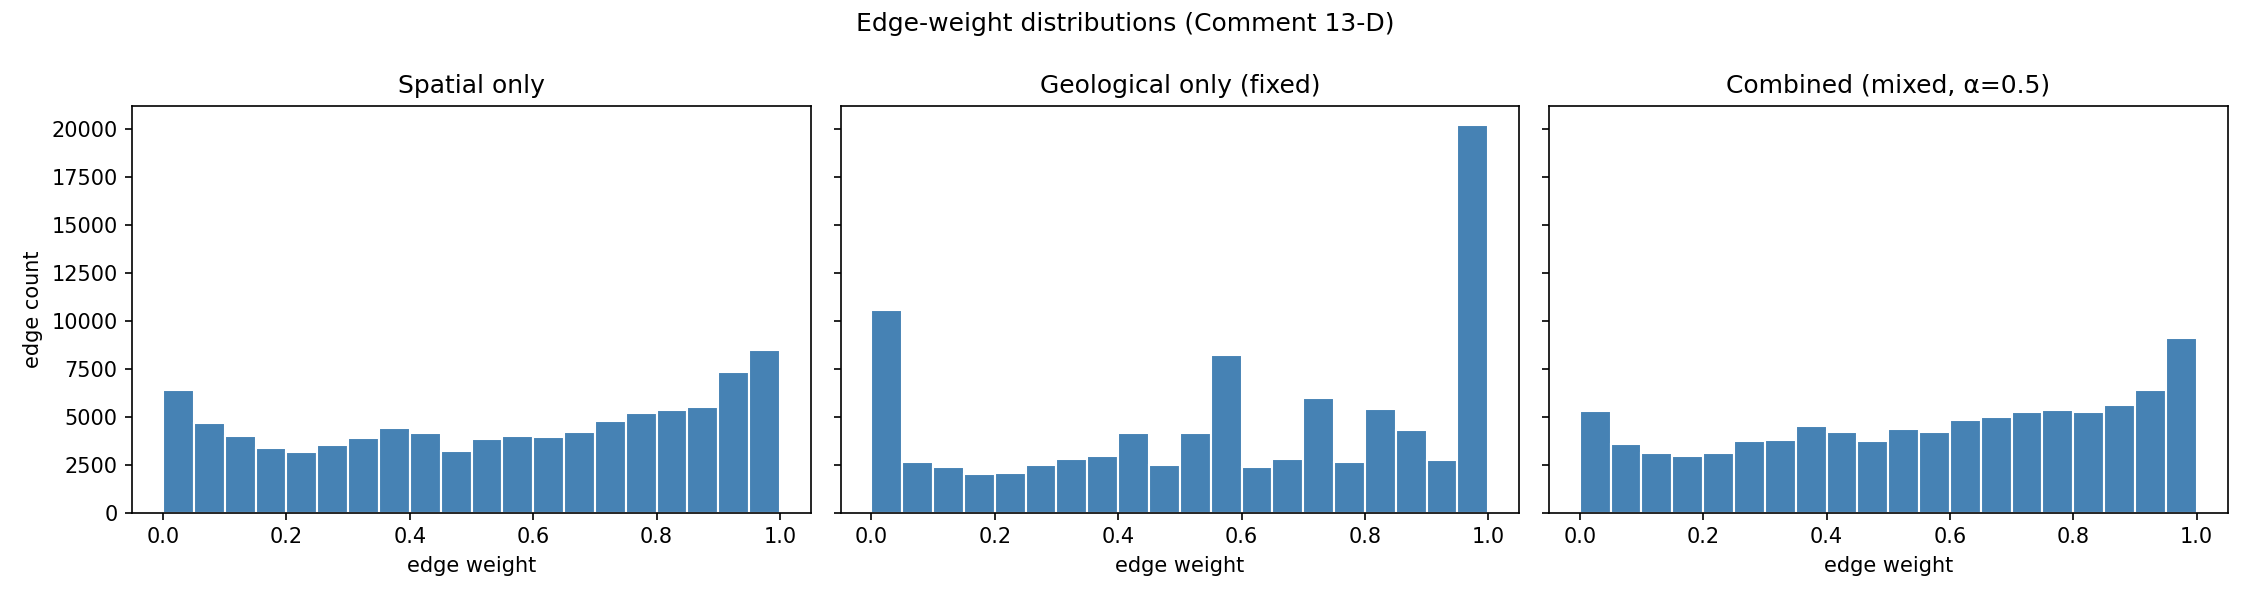
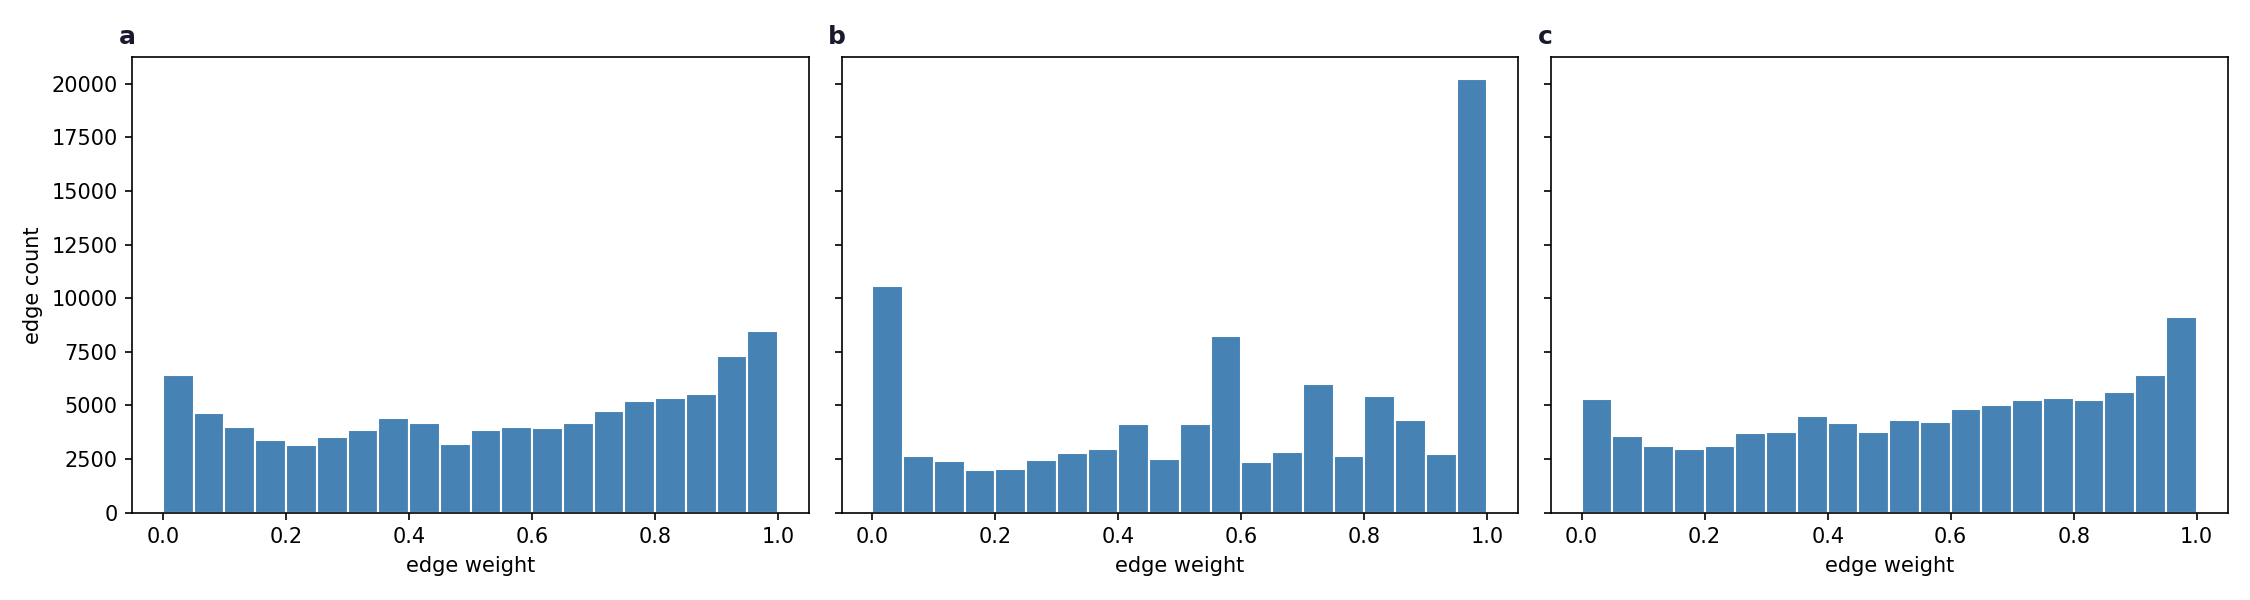
chore(figures): drop in-figure titles and add panel labels

diff --git a/experiment/run_graph_diagnostics.py b/experiment/run_graph_diagnostics.py
@@ -157,13 +157,14 @@ def _save_histogram_plot(edge_weights: dict, out_path: str):
     import matplotlib.pyplot as plt
 
     fig, axes = plt.subplots(1, 3, figsize=(15, 4), sharey=True)
-    titles = {"spatial": "Spatial only", "geo": "Geological only (fixed)", "combined": "Combined (mixed, α=0.5)"}
     for ax, (name, ew) in zip(axes, edge_weights.items()):
         ax.hist(ew, bins=20, range=(0.0, 1.0), color="steelblue", edgecolor="white")
-        ax.set_title(titles.get(name, name))
         ax.set_xlabel("edge weight")
     axes[0].set_ylabel("edge count")
-    fig.suptitle("Edge-weight distributions (Comment 13-D)")
+    for ax, lbl in zip(axes, ["a", "b", "c"]):
+        ax.annotate(lbl, xy=(-0.02, 1.03), xycoords="axes fraction",
+                    fontsize=12, fontweight="bold", color="#1A1A2E",
+                    annotation_clip=False)
     fig.tight_layout()
     Path(out_path).parent.mkdir(parents=True, exist_ok=True)
     fig.savefig(out_path, dpi=150)

diff --git a/experiment/run_calibration_analysis.py b/experiment/run_calibration_analysis.py
@@ -175,9 +175,11 @@ def _plot_reliability(results: dict, out_plot: str) -> None:
         ax.set_ylim(0, 1)
         ax.set_xlabel("Mean predicted probability")
         ax.set_ylabel("Observed frequency")
-        brier = exp_result[model_name]["brier_score"]
-        ax.set_title(f"{exp_name} — {model_name} (Brier={brier:.3f})")
         ax.legend(fontsize=8)
+    for ax, lbl in zip(axes, ["a", "b", "c"]):
+        ax.annotate(lbl, xy=(-0.02, 1.03), xycoords="axes fraction",
+                    fontsize=12, fontweight="bold", color="#1A1A2E",
+                    annotation_clip=False)
     fig.tight_layout()
     Path(out_plot).parent.mkdir(parents=True, exist_ok=True)
     fig.savefig(out_plot, dpi=150)

diff --git a/visualize_case_study.py b/visualize_case_study.py
@@ -218,12 +218,6 @@ def make_world_overview(df, test_coords, metrics, save_path):
                       edgecolor=color, alpha=0.93),
         )
 
-    ax.set_title(
-        "Global REE Deposit Distribution — Test Nodes Highlighted (Exp 1)\n"
-        "Annotated: regions where SPIRE F1 > XGBoost  (avg over 5 seeds)",
-        fontsize=11, fontweight="bold",
-    )
-
     region_patches = [
         mpatches.Patch(facecolor=REGION_COLORS.get(r, "#999999"), label=r)
         for r in sorted(REGION_COLORS)
